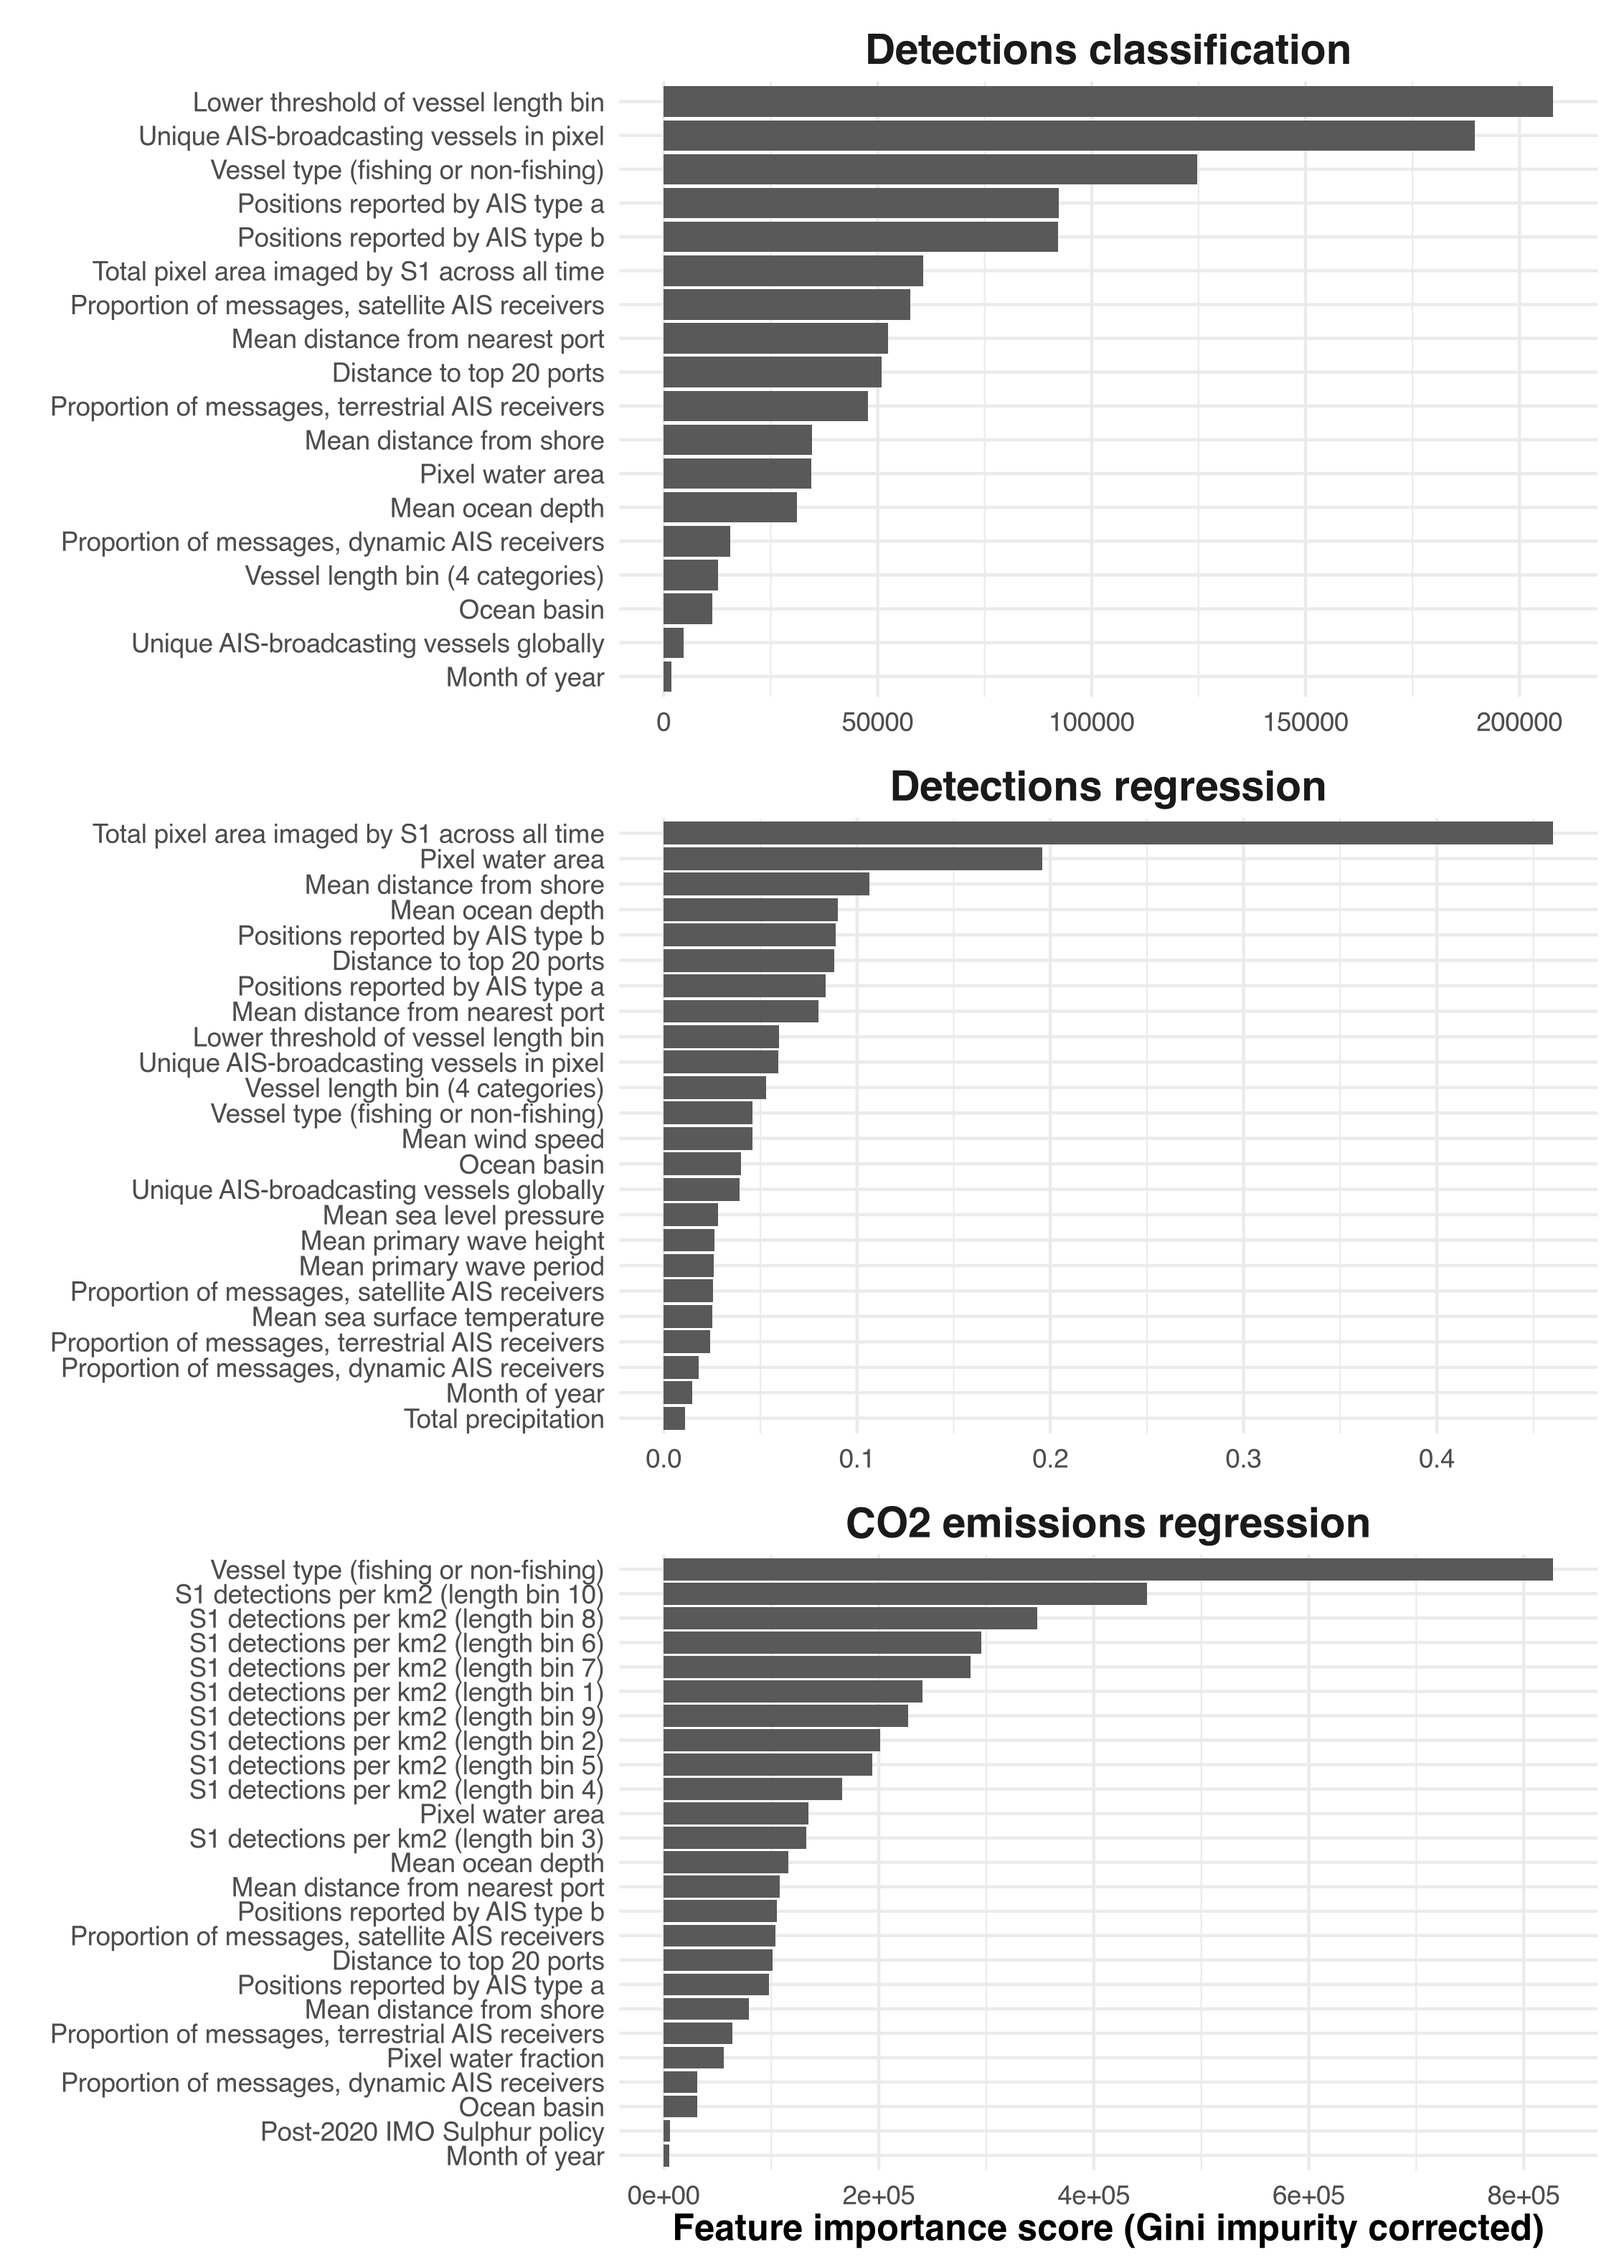
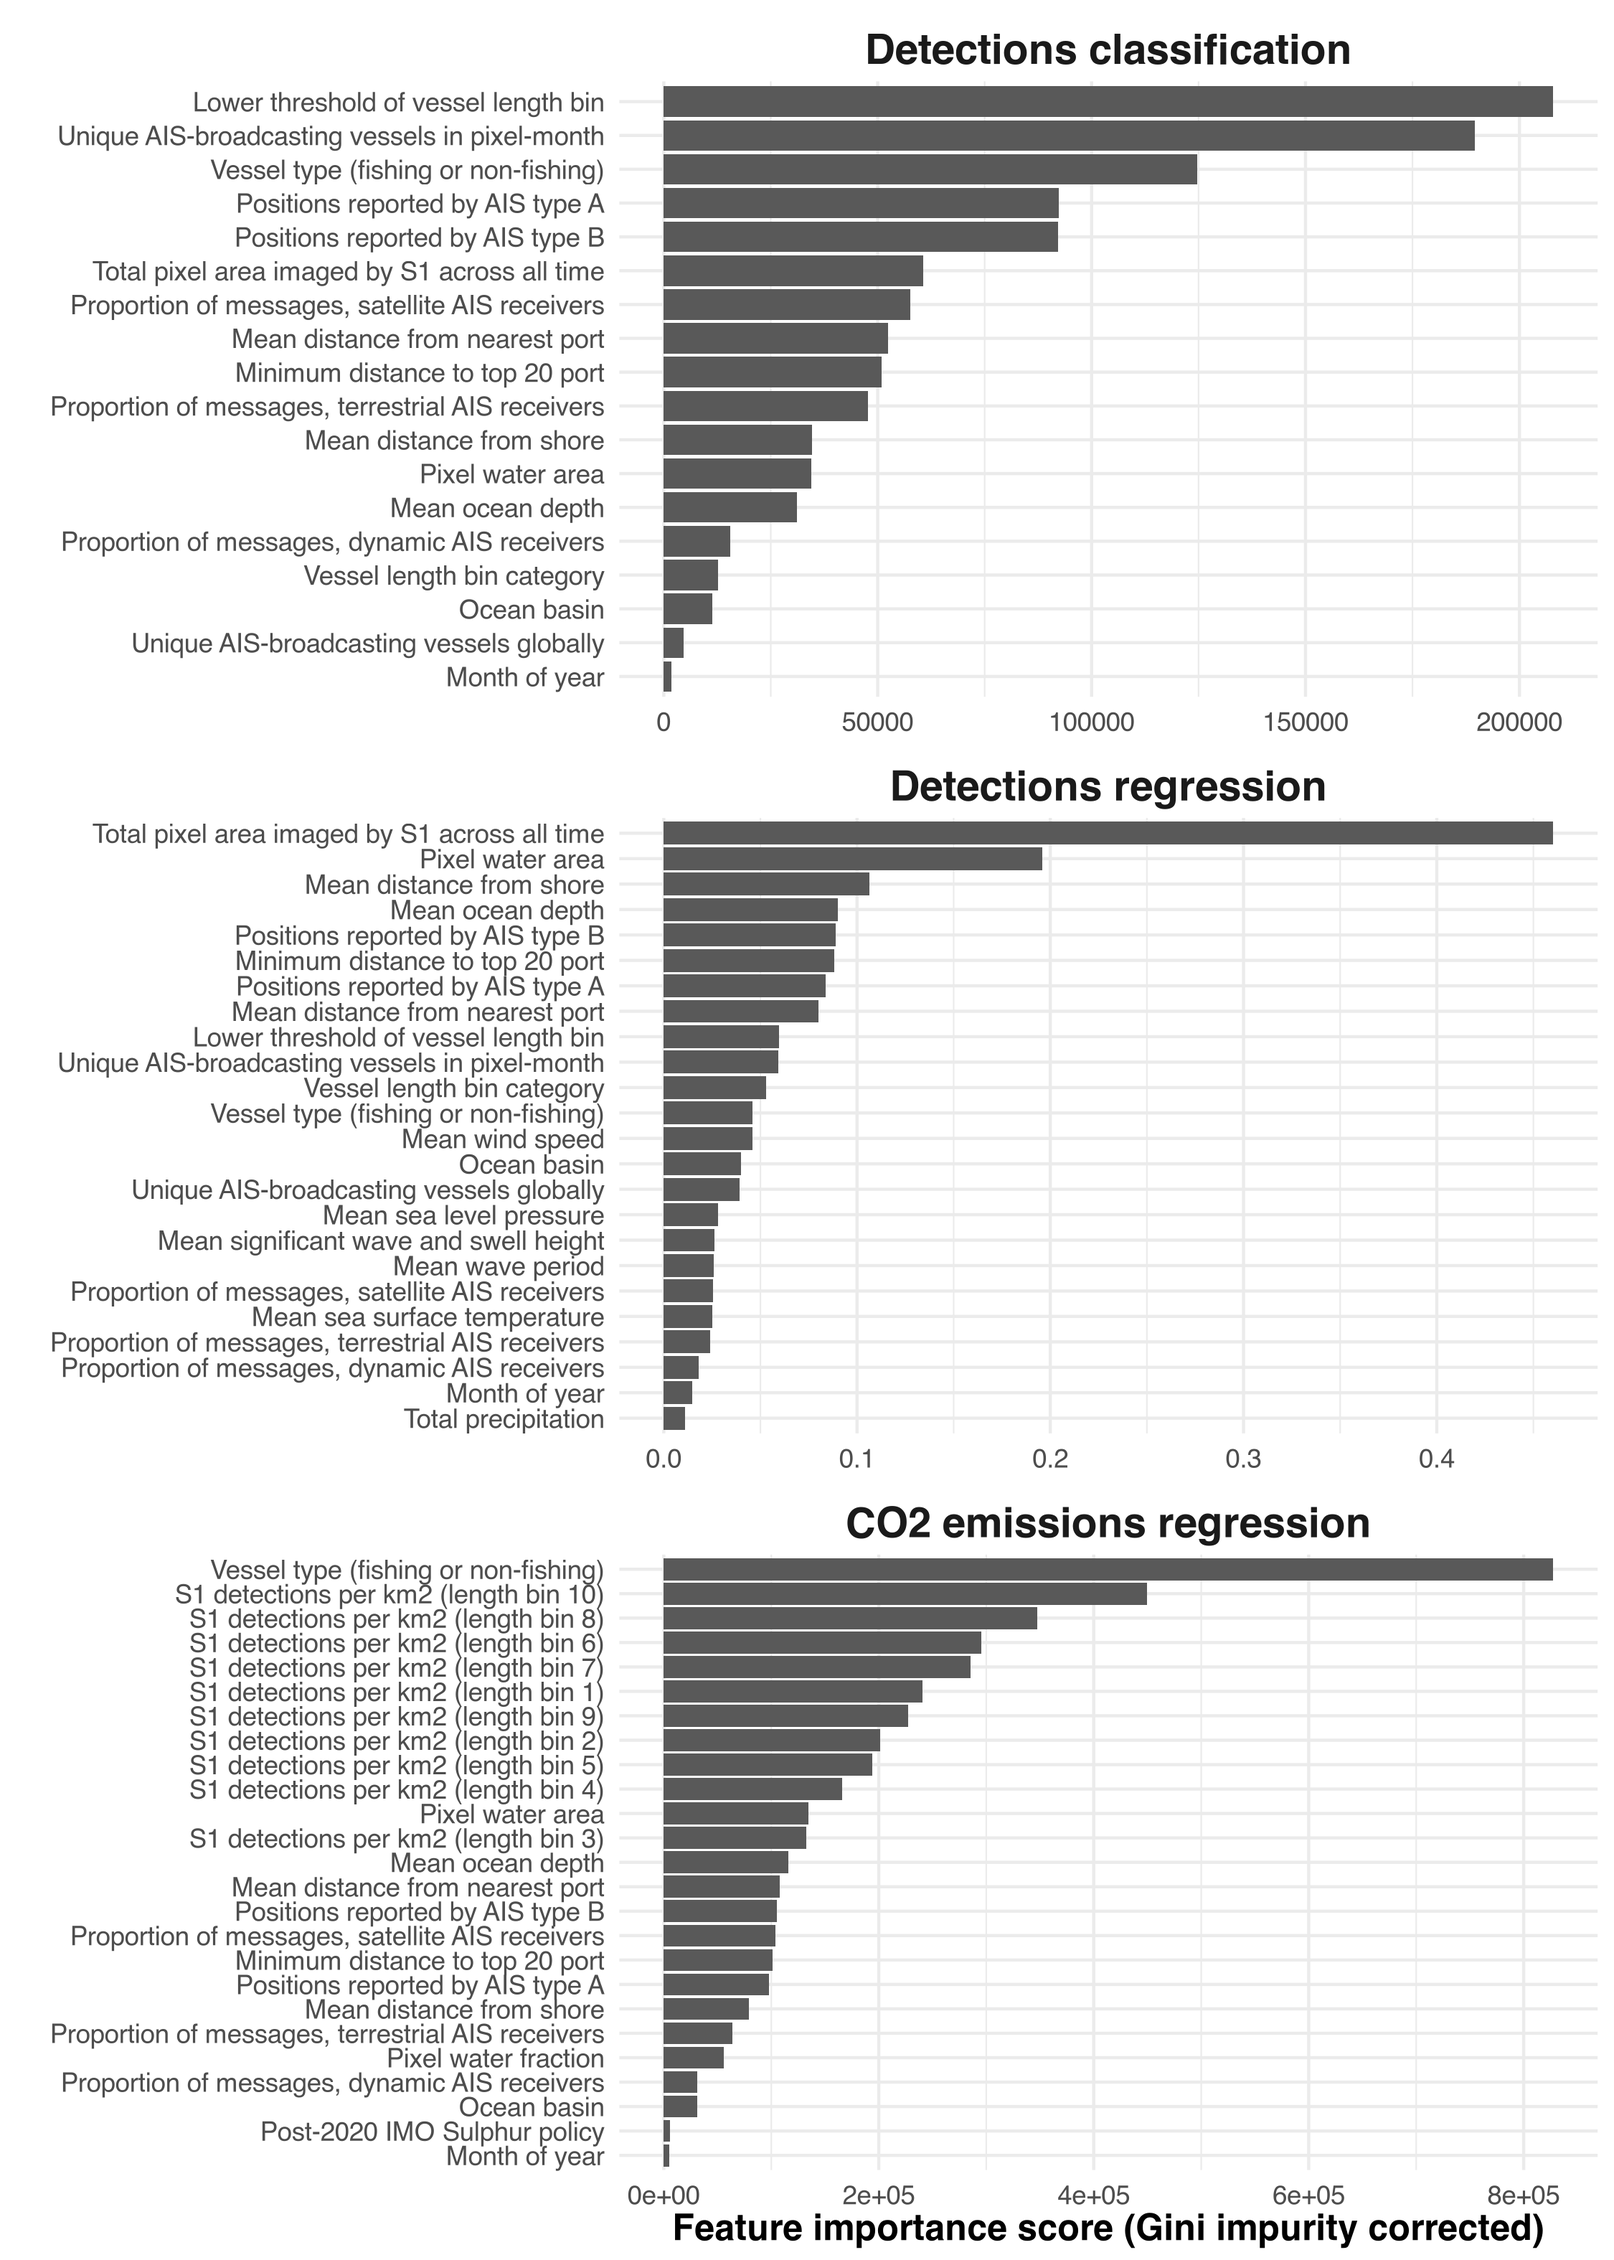
Reorganize and refine data sources table with improved feature descriptions and ordering

diff --git a/tables/data_sources.tex b/tables/data_sources.tex
@@ -13,32 +13,32 @@ Log(AIS emissions) & Dependent variable & No & No & Yes & log(MT) & Numeric & Ye
 Vessel type (fishing or non-fishing) & Dependent variable & Yes & Yes & Yes & - & Boolean & Yes & Yes & GFW & \cite{paolo2024satellite}\\
 Lower threshold of vessel length bin & S1 detection features & Yes & Yes & No & m & Numeric & No & No & GFW & \cite{paolo2024satellite}\\
 \addlinespace
-Vessel length bin (4 categories) & S1 detection features & Yes & Yes & No & - & Factor & Yes & Yes & GFW & \cite{paolo2024satellite}\\
+Vessel length bin category & S1 detection features & Yes & Yes & No & - & Factor & Yes & Yes & GFW & \cite{paolo2024satellite}\\
 S1 detections per km$^2$ of area for each length bin & S1 detection features & No & No & Yes & detects/km2 & Numeric & Yes & Yes & GFW & \cite{paolo2024satellite}\\
+Total pixel area imaged by S1 across all time & S1 detection features & Yes & Yes & No & km2 & Numeric & Yes & No & GFW & \cite{paolo2024satellite}\\
+Unique AIS-broadcasting vessels in pixel-month & AIS reception quality & Yes & Yes & No & - & Numeric & Yes & Yes & GFW & \cite{kroodsma2018tracking}\\
+Unique AIS-broadcasting vessels globally & AIS reception quality & Yes & Yes & No & - & Numeric & No & Yes & GFW & \cite{kroodsma2018tracking}\\
+\addlinespace
+Positions reported by AIS type A & AIS reception quality & Yes & Yes & Yes & - & Numeric & Yes & No & GFW & \cite{kroodsma2018tracking}\\
+Positions reported by AIS type B & AIS reception quality & Yes & Yes & Yes & - & Numeric & Yes & No & GFW & \cite{kroodsma2018tracking}\\
+Proportion of messages, dynamic AIS receivers & AIS reception quality & Yes & Yes & Yes & - & Numeric & Yes & Yes & GFW & \cite{kroodsma2018tracking}\\
+Proportion of messages, terrestrial AIS receivers & AIS reception quality & Yes & Yes & Yes & - & Numeric & Yes & Yes & GFW & \cite{kroodsma2018tracking}\\
+Proportion of messages, satellite AIS receivers & AIS reception quality & Yes & Yes & Yes & - & Numeric & Yes & Yes & GFW & \cite{kroodsma2018tracking}\\
+\addlinespace
+Month of year & Temporal features & Yes & Yes & Yes & - & Factor & No & Yes & GFW & -\\
 Post-2020 IMO Sulphur policy & Temporal features & No & No & Yes & - & Boolean & No & Yes & IMO & \cite{imo_sulphur_2020}\\
 Ocean basin & Geographic features  & Yes & Yes & Yes & - & Factor & Yes & No & GFW & \cite{kroodsma2018tracking}\\
 Pixel water area & Geographic features  & Yes & Yes & Yes & km2 & Numeric & Yes & No & GFW & \cite{paolo2024satellite}\\
+Pixel water fraction & Geographic features & No & No & Yes & - & Numeric & Yes & No & GFW & \cite{paolo2024satellite}\\
 \addlinespace
 Mean ocean depth & Geographic features  & Yes & Yes & Yes & m & Numeric & Yes & No & GFW & \cite{kroodsma2018tracking}\\
 Mean distance from shore & Geographic features  & Yes & Yes & Yes & m & Numeric & Yes & No & GFW & \cite{kroodsma2018tracking}\\
 Mean distance from nearest port & Geographic features  & Yes & Yes & Yes & m & Numeric & Yes & No & GFW & \cite{kroodsma2018tracking}\\
-Distance to top 20 ports & Geographic features  & Yes & Yes & Yes & m & Numeric & Yes & No & Lloyd’s List & \cite{LloydsListTopPorts2024}\\
-Positions reported by AIS type a & AIS reception quality & Yes & Yes & Yes & - & Numeric & Yes & No & GFW & \cite{kroodsma2018tracking}\\
-\addlinespace
-Positions reported by AIS type b & AIS reception quality & Yes & Yes & Yes & - & Numeric & Yes & No & GFW & \cite{kroodsma2018tracking}\\
-Proportion of messages, dynamic AIS receivers & AIS reception quality & Yes & Yes & Yes & - & Numeric & Yes & Yes & GFW & \cite{kroodsma2018tracking}\\
-Proportion of messages, terrestrial AIS receivers & AIS reception quality & Yes & Yes & Yes & - & Numeric & Yes & Yes & GFW & \cite{kroodsma2018tracking}\\
-Proportion of messages, satellite AIS receivers & AIS reception quality & Yes & Yes & Yes & - & Numeric & Yes & Yes & GFW & \cite{kroodsma2018tracking}\\
+Minimum distance to top 20 port & Geographic features  & Yes & Yes & Yes & m & Numeric & Yes & No & Lloyd’s List & \cite{LloydsListTopPorts2024}\\
 Mean wind speed & Weather features & No & Yes & No & m/s & Numeric & Yes & Yes & ERA5 & \cite{era5cds2023}\\
 \addlinespace
-Mean primary wave height & Weather features & No & Yes & No & m & Numeric & Yes & Yes & ERA5 & \cite{era5cds2023}\\
-Mean primary wave period & Weather features & No & Yes & No & s & Numeric & Yes & Yes & ERA5 & \cite{era5cds2023}\\
-Total pixel area imaged by S1 across all time & S1 detection features & Yes & Yes & No & km2 & Numeric & Yes & No & GFW & \cite{paolo2024satellite}\\
-Pixel water fraction & Geographic features & No & No & Yes & - & Numeric & Yes & No & GFW & \cite{paolo2024satellite}\\
-Unique AIS-broadcasting vessels in pixel & AIS reception quality & Yes & Yes & No & - & Numeric & Yes & Yes & GFW & \cite{kroodsma2018tracking}\\
-\addlinespace
-Unique AIS-broadcasting vessels globally & AIS reception quality & Yes & Yes & No & - & Numeric & No & Yes & GFW & \cite{kroodsma2018tracking}\\
-Month of year & Temporal features & Yes & Yes & Yes & - & Factor & No & Yes & GFW & -\\
+Mean significant wave and swell height & Weather features & No & Yes & No & m & Numeric & Yes & Yes & ERA5 & \cite{era5cds2023}\\
+Mean wave period & Weather features & No & Yes & No & s & Numeric & Yes & Yes & ERA5 & \cite{era5cds2023}\\
 Mean sea surface temperature & Weather features & No & Yes & No & K & Numeric & Yes & Yes & ERA5 & \cite{era5cds2023}\\
 Mean sea level pressure & Weather features & No & Yes & No & Pa & Numeric & Yes & Yes & ERA5 & \cite{era5cds2023}\\
 Total precipitation & Weather features & No & Yes & No & m & Numeric & Yes & Yes & ERA5 & \cite{era5cds2023}\\
